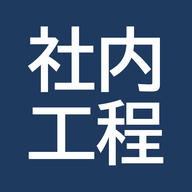
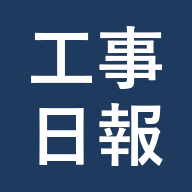
工事日報：アイコンを「工事日報」に・この月の一覧（Vr003 11/01 23:17）

Changed region(s): [[0.125, 0.125, 0.8438, 0.5], [0.125, 0.5, 0.875, 0.875]]

diff --git a/nippou3/app.js b/nippou3/app.js
@@ -124,7 +124,8 @@ const S = {
   F: {},                         // 月 → { doc, eTag, pending:[fn], saving, timer, err, loaded }
   M: { 社員: [], 従業員: [], 外注業者: [], 機械: [] },   // 工程データ\マスタ.json（機械は自社機械稼働表の機械の名前）
   sites: [],                     // 稼働データ\現場一覧.json の 現場（コード・名前・正式名・元請）
-  view: "me",                    // me＝私の日報、all＝この日の全員の日報、mysum＝私の月の集計、site＝現場別日報（別ウィンドウ）
+  view: "me",                    // me＝私の日報、all＝この日の全員の日報、mysum＝私の月の集計、list＝月の一覧、site＝現場別日報（別ウィンドウ）
+  who: "",                       // 月の一覧で見ている人（空＝自分）
   K: { sites: [], rest: [] },    // 全体工程表の 現場_*.json と 休日.json（予定を作る。ゲストは読めない）
   kikai: null,                   // 稼働データ.json（機械の稼働の集計。読めなければ出さない）
   site: null,                    // 現場別日報で見ている現場 { place, code }
@@ -439,6 +440,7 @@ function render() {
   $("bSite").hidden = S.view === "site";
   if (S.view === "all") return renderAll();
   if (S.view === "mysum") return renderMySum();
+  if (S.view === "list") return renderList();
   $("empty").hidden = true;
   if (S.view === "site") renderSite();
   else {
@@ -720,6 +722,36 @@ async function renderSiteSum() {
     $("all").innerHTML = `<h3>${esc(S.site.place)}　${+m.slice(5)}月の集計<small>（全員の日報から。◀▶ で月を移る）</small></h3>` + sumHTML(entries, days, "だれ", siteMachines(days));
   } catch (e) { $("all").innerHTML = `<p class="ng">集計できませんでした：${esc(e.message)}</p>`; }
 }
+// 月の一覧（「…」→ この月の一覧）：1日〜月末を縦に、日・曜日・現場・作業内容（要約）。名前を選ぶと、ほかの人の分も見られる
+function workSum(rs) {
+  const rep = [], plan = [], pick = a => [...new Set(a.map(v => v.trim()).filter(Boolean))].join("、");
+  rs.forEach(r => workLines(r).forEach(l => { if (l.報告) rep.push(...String(l.報告).split(/\r?\n/)); else if (l.予定) plan.push(l.予定); }));
+  const t = pick(rep), cut = v => v.length > 60 ? v.slice(0, 60) + "…" : v;
+  return t ? { t: cut(t) } : { t: cut(pick(plan)), plan: true };
+}
+async function renderList() {
+  $("cards").hidden = true; $("empty").hidden = true; $("all").hidden = false;
+  $("dayHead").innerHTML = `<button id="bBack">← 日報に戻る</button>`;
+  $("bBack").onclick = () => { S.view = S.site ? "site" : "me"; render(); };
+  const m = monthOf(S.day);
+  if (!$("all").querySelector(".mlist")) $("all").innerHTML = `<p>読んでいます…</p>`;
+  await loadMonth(m);
+  let docs = [];
+  try { docs = await monthDocs(m); } catch (e) { toast("ほかの人の日報を読めませんでした：" + e.message); }
+  if (S.view !== "list" || monthOf(S.day) !== m) return;
+  const names = [...new Set([S.me.name, ...docs.map(d => d.名前).filter(Boolean)])];
+  const who = names.find(n => nk(n) === nk(S.who)) || S.me.name, mine = nk(who) === nk(S.me.name);
+  const doc = mine ? fileOf(m).doc : docs.find(d => nk(d.名前) === nk(who)) || { 日: {} };
+  const body = monthDays(m).map(k => {
+    const d = (doc.日 || {})[k] || {}, rs = d.行 || [], w = workSum(rs);
+    const places = [...new Set(rs.map(r => r.行先).filter(Boolean))].join("　");
+    return `<tr data-k="${k}" class="${dayCls(k)}"><td class="num">${+k.slice(8)}</td><td>${WD[dow(k)]}</td><td>${esc(places)}</td><td>${w.plan && w.t ? `<span class="plan">予定：${esc(w.t)}</span>` : esc(w.t)}${rs.length && !d.報告 ? `<span class="mk">書きかけ</span>` : ""}</td></tr>`;
+  }).join("");
+  $("all").innerHTML = `<h3 class="lhead">${+m.slice(5)}月　<select id="lWho">${names.map(n => `<option${n === who ? " selected" : ""}>${esc(n)}</option>`).join("")}</select><small>◀▶ で月を移る・行を押すとその日</small></h3>
+    <table class="list mlist"><thead><tr><th>日</th><th>曜日</th><th>現場</th><th>作業内容</th></tr></thead><tbody>${body}</tbody></table>`;
+  $("lWho").onchange = () => { S.who = $("lWho").value; renderList(); };
+  $("all").querySelector("tbody").onclick = e => { const tr = e.target.closest("tr[data-k]"); if (!tr) return; S.view = S.site ? "site" : mine ? "me" : "all"; if (S.site) S.tab = "day"; setDay(tr.dataset.k); };
+}
 // 私の月の集計（「…」→ この月の集計）
 async function renderMySum() {
   $("cards").hidden = true; $("empty").hidden = true; $("all").hidden = false;
@@ -832,13 +864,13 @@ async function setDay(k) {
   await loadMonth(monthOf(k)); if (S.day === k) render();
 }
 function bind() {
-  const monthView = () => S.view === "mysum" || (S.view === "site" && S.tab === "sum");
+  const monthView = () => S.view === "mysum" || S.view === "list" || (S.view === "site" && S.tab === "sum");
   const monthStep = n => { const d = dateOf(monthOf(S.day) + "-01"); d.setMonth(d.getMonth() + n); return keyOf(d); };
   $("bPrev").onclick = () => setDay(monthView() ? monthStep(-1) : dayAdd(S.day, -1));
   $("bNext").onclick = () => setDay(monthView() ? monthStep(1) : dayAdd(S.day, 1));
   $("bToday").onclick = () => setDay(todayKey());
   $("inDay").onchange = () => { if ($("inDay").value) setDay($("inDay").value); };
-  $("bAdd").onclick = () => { if (S.view === "all" || S.view === "mysum") { S.view = "me"; render(); } if (S.view === "site" && S.tab !== "day") { S.tab = "day"; render(); } addRow(); };
+  $("bAdd").onclick = () => { if (S.view === "all" || S.view === "mysum" || S.view === "list") { S.view = S.site ? "site" : "me"; render(); } if (S.view === "site" && S.tab !== "day") { S.tab = "day"; render(); } addRow(); };
   $("bSite").onclick = chooseSite;
   $("bReport").onclick = report;
   $("bMe").onclick = async () => { const n = await askMe(S.me.acct, false); if (n) setMe(n); };
@@ -852,6 +884,7 @@ function bind() {
     if (m.dataset.m === "me") $("bMe").click();
     if (m.dataset.m === "find") findFolder();
     if (m.dataset.m === "same") sameAsBefore();
+    if (m.dataset.m === "list") { S.view = "list"; render(); }
     if (m.dataset.m === "mysum") { S.view = S.view === "site" ? "site" : "mysum"; if (S.view === "site") S.tab = "sum"; render(); }
   };
   // PC：Alt+←/→ で日を移る

diff --git a/nippou3/index.html b/nippou3/index.html
@@ -13,7 +13,7 @@
 <meta name="apple-mobile-web-app-title" content="工事日報">
 <link rel="apple-touch-icon" href="apple-touch-icon.png">
 <link rel="icon" href="icon-192.png">
-<link rel="stylesheet" href="app.css?v=202611011749">
+<link rel="stylesheet" href="app.css?v=202611012317">
 </head>
 <body>
 <header id="top">
@@ -50,20 +50,21 @@
 
 <div id="menu" class="menu" hidden>
   <button data-m="same">前の日と同じにする</button>
+  <button data-m="list">この月の一覧（名前を選べば、ほかの人も）</button>
   <button data-m="mysum">この月の集計</button>
   <button data-m="all">この日の全員の日報</button>
   <button data-m="reload">最新を読み直す</button>
   <button data-m="install">ホーム画面に置く（アドレスバーを消す）</button>
   <button data-m="me">名前を選び直す</button>
   <button data-m="find" id="mFind" hidden>日報のフォルダを調べる（管理者）</button>
-  <span class="ver">Vr003 11/01 17:49</span>
+  <span class="ver">Vr003 11/01 23:17</span>
 </div>
 
 <dialog id="dlg"><div id="dlgBody"></div></dialog>
 <div id="toast"></div>
 
 <script src="lib/msal-browser.min.js"></script>
-<script src="config.js?v=202611011749"></script>
-<script src="app.js?v=202611011749"></script>
+<script src="config.js?v=202611012317"></script>
+<script src="app.js?v=202611012317"></script>
 </body>
 </html>

diff --git a/nippou3/app.css b/nippou3/app.css
@@ -179,3 +179,14 @@ table.list tr.miss td:last-child::after { content: "未報告"; color: var(--war
 .dcol { height: 220px; width: 96px; overflow-y: scroll; scroll-snap-type: y mandatory; padding: 88px 0; box-sizing: border-box; scrollbar-width: none; overscroll-behavior: contain; -webkit-overflow-scrolling: touch; }
 .dcol::-webkit-scrollbar { display: none; }
 .dcol > div { height: 44px; line-height: 44px; text-align: center; font-size: 24px; scroll-snap-align: center; }
+/* 月の一覧（1日〜月末を縦に） */
+.lhead select { font-size: 16px; padding: 4px 8px; max-width: 60vw; }
+table.mlist { background: #fff; border: 1px solid var(--line); }
+table.mlist th, table.mlist td { padding: 7px 6px; }
+table.mlist td:nth-child(1), table.mlist td:nth-child(2), table.mlist th:nth-child(1), table.mlist th:nth-child(2) { width: 2.2em; text-align: center; white-space: nowrap; }
+table.mlist td:nth-child(3) { width: 34%; }
+table.mlist tbody tr { cursor: pointer; }
+table.mlist tr.sun td:nth-child(-n+2) { color: var(--ng); } table.mlist tr.sun { background: #fdf6f5; }
+table.mlist tr.sat td:nth-child(-n+2) { color: #2b6cb0; } table.mlist tr.sat { background: #f5f8fc; }
+table.mlist .plan { color: var(--sub); }
+table.mlist .mk { margin-left: 6px; font-size: 11px; color: var(--warn); white-space: nowrap; }
